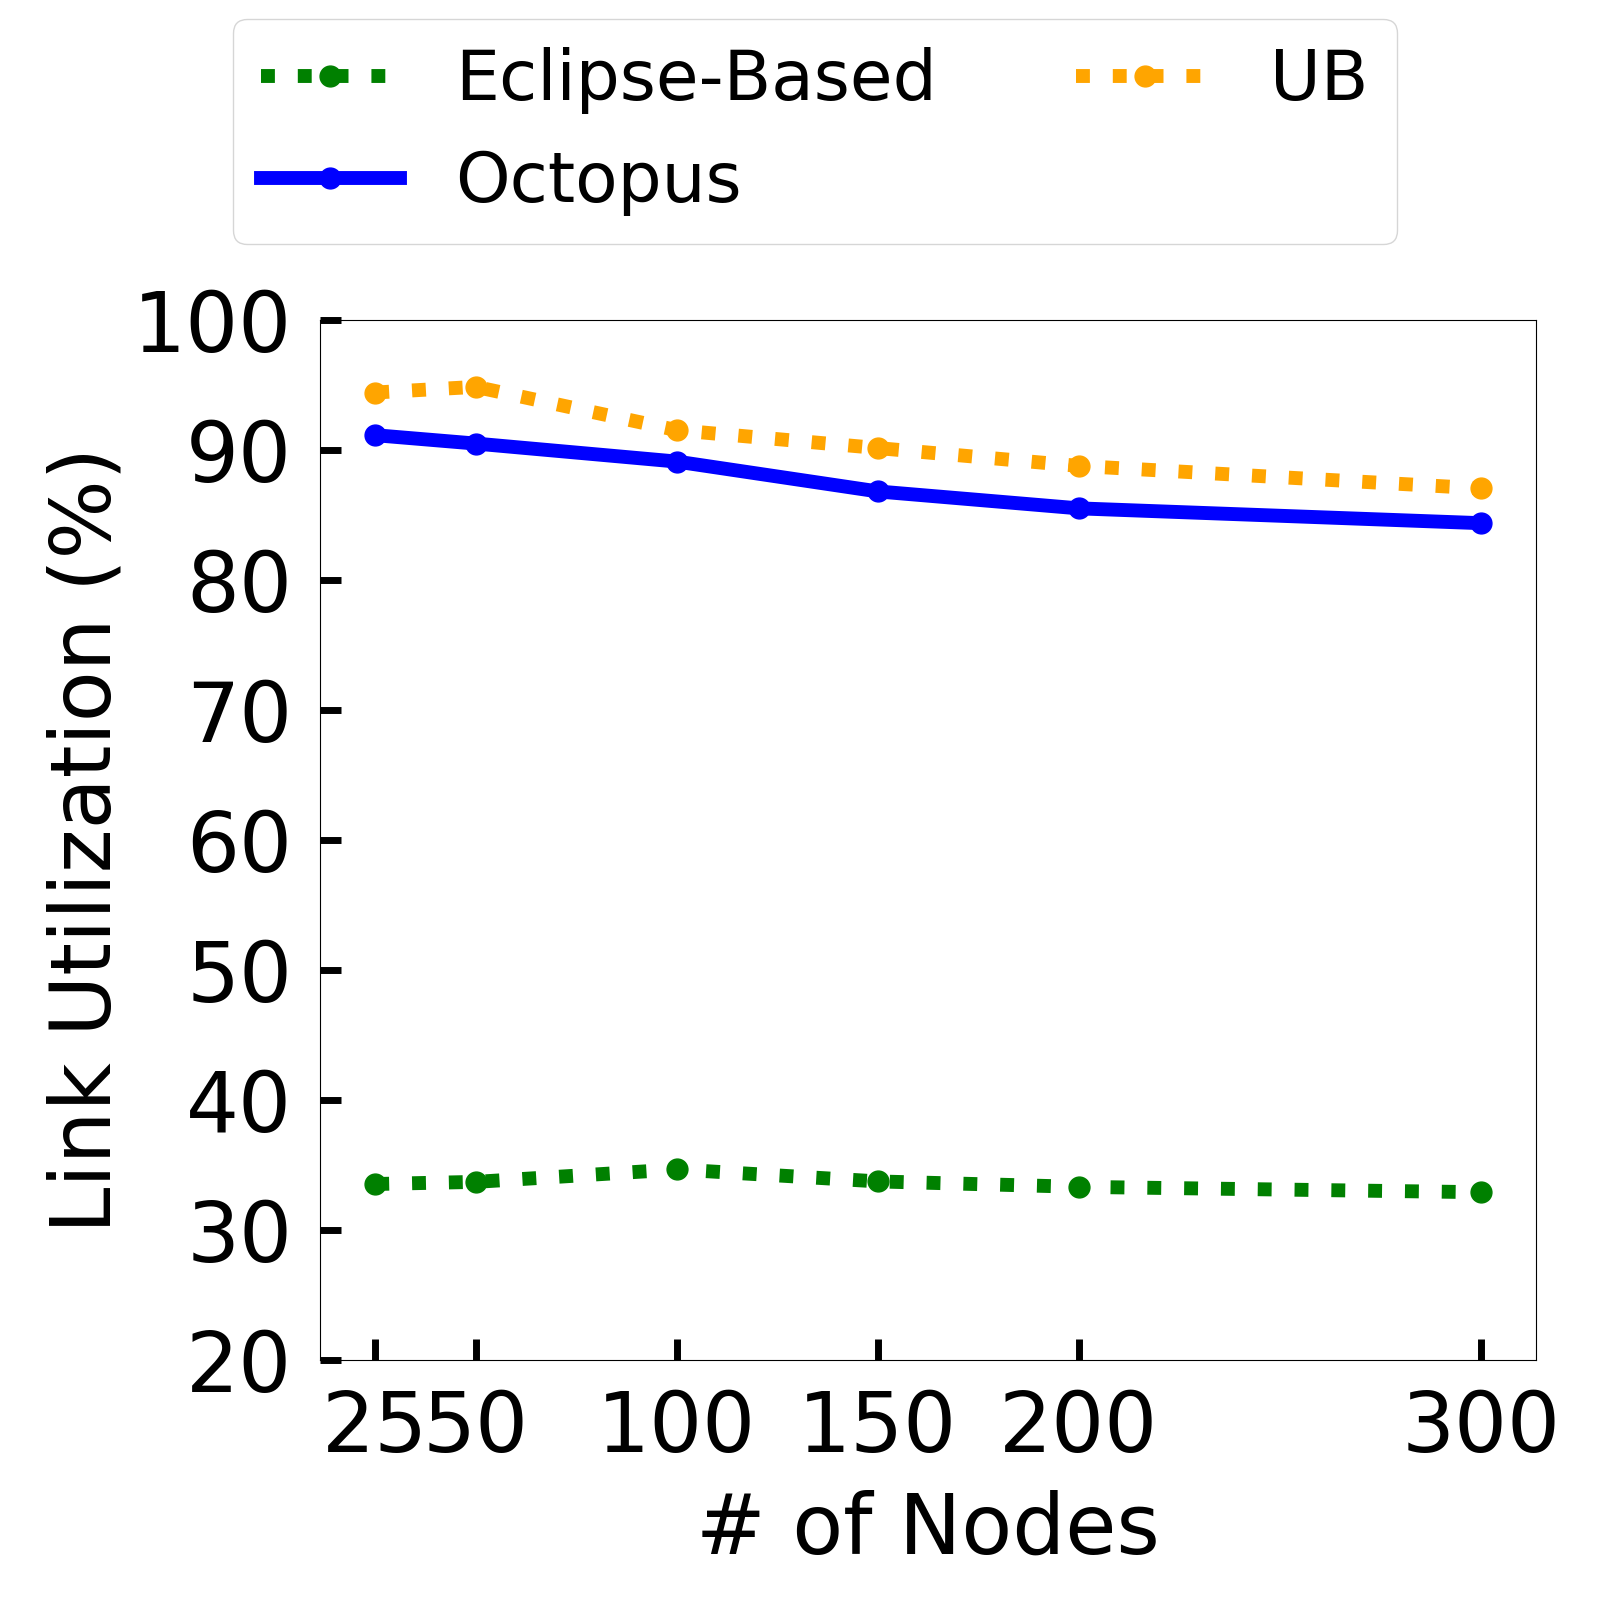
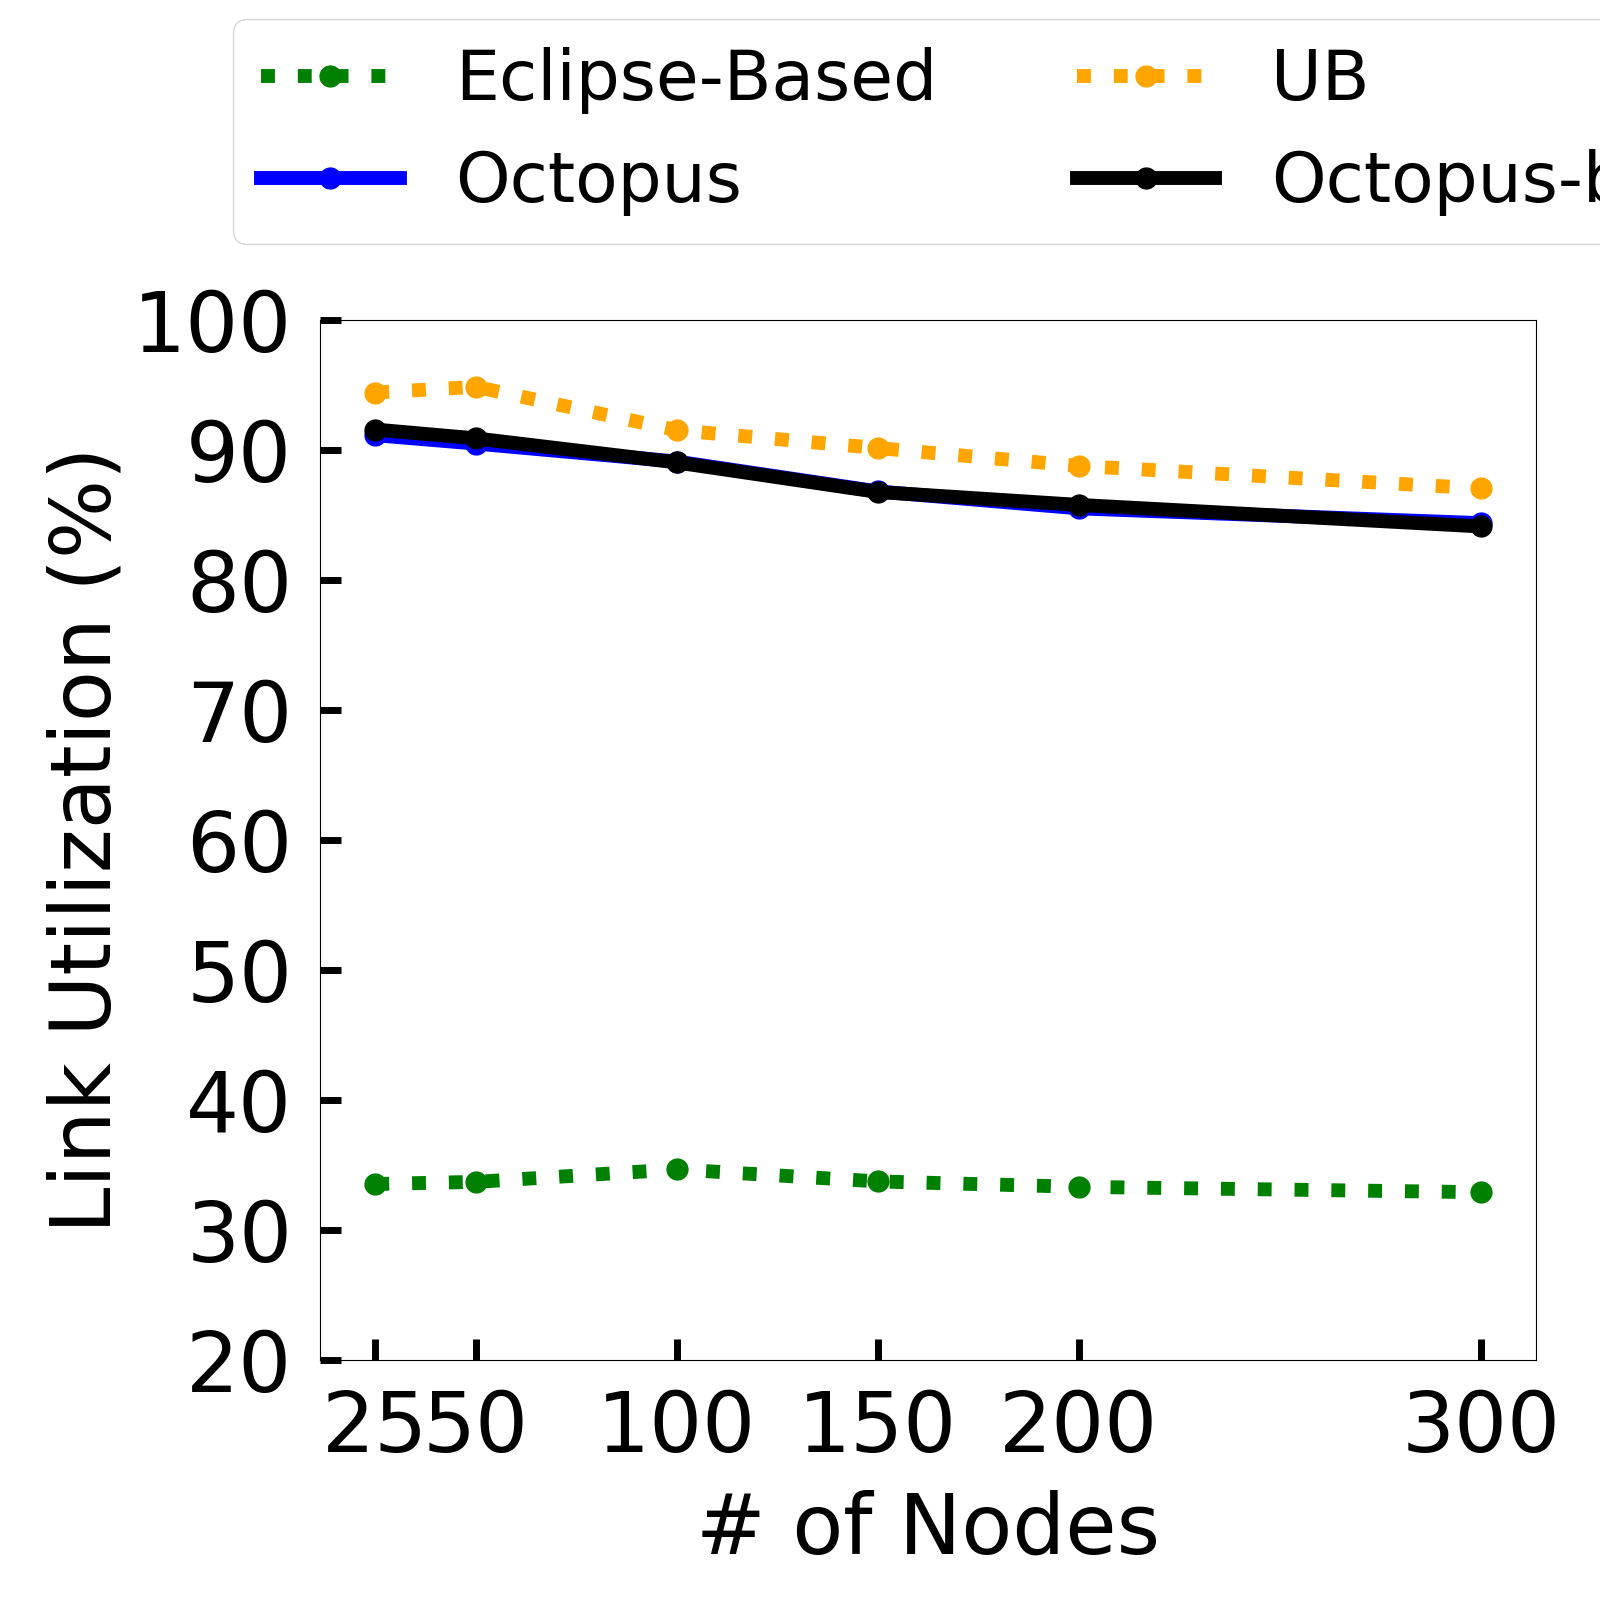
update plots

diff --git a/plots.py b/plots.py
@@ -12,9 +12,11 @@ from runner import DEFAULT_WINDOW_SIZE
 
 
 def average(vals):
+	vals = list(filter(None, vals))  # filter out the None values
 	return float(sum(vals)) / float(len(vals))
 
 def min_max(vals):
+	vals = list(filter(None, vals))  # filter out the None values
 	vals = np.array(vals)
 	return (round(vals.min(), 4), round(vals.max(), 4))
 
@@ -44,13 +46,12 @@ def y_fmt(tick_val, pos):
     else:
         return tick_val
 
-
-
-METHOD  = ['Octopus', 'Octopus+', 'Octopus-e', 'Eclipse-Based', 'UB',      'Absolute-UB']
-_COLOR  = ['b',       'c',        'gray',      'g',             'orange',  'r']
 # _MARKER = ['o',       'h',        's',         '^',             'D',       'P']
-_MARKER = ['o',       'o',        'o',         'o',             'o',       'o']
-_LINE   = ['-',       ':',        ':',         ':',             ':',       '-']
+
+METHOD  = ['Octopus', 'Octopus+', 'Octopus-e', 'Octopus-b', 'Eclipse-Based', 'UB',      'Absolute-UB']
+_COLOR  = ['b',       'c',        'gray',      'k',         'g',             'orange',  'r']
+_MARKER = ['o',       'o',        'o',         'o',         'o',             'o',       'o']
+_LINE   = ['-',       ':',        ':',         '-',         ':',             ':',       '-']
 COLOR   = dict(zip(METHOD, _COLOR))
 MARKER  = dict(zip(METHOD, _MARKER))
 LINE    = dict(zip(METHOD, _LINE))
